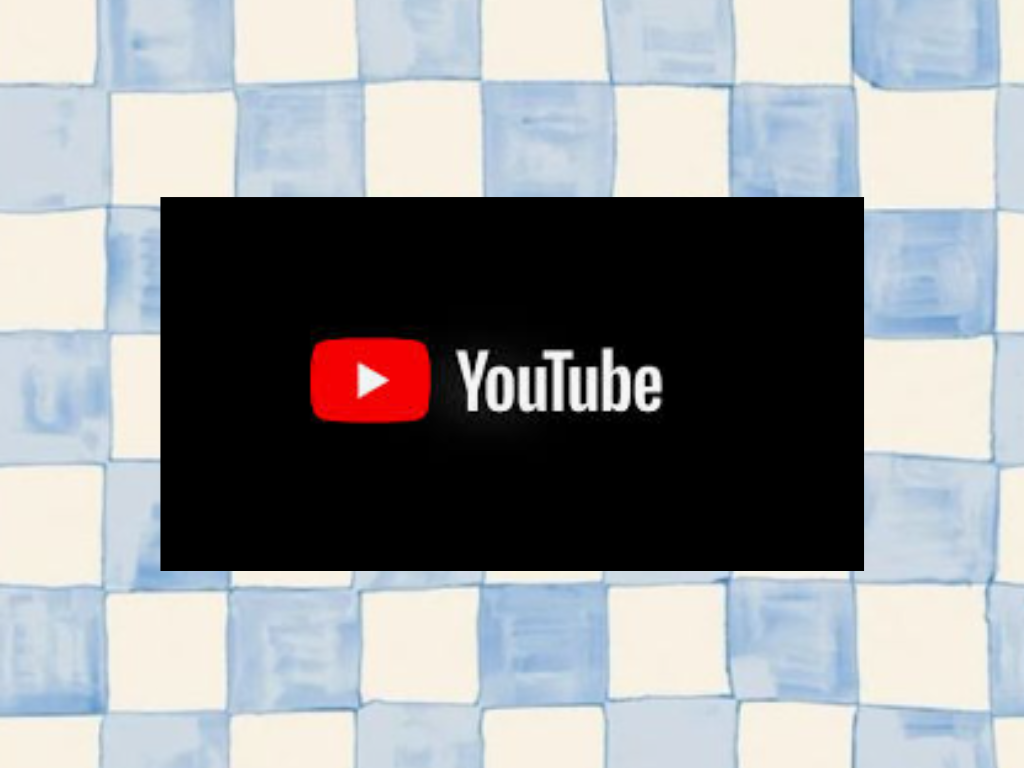
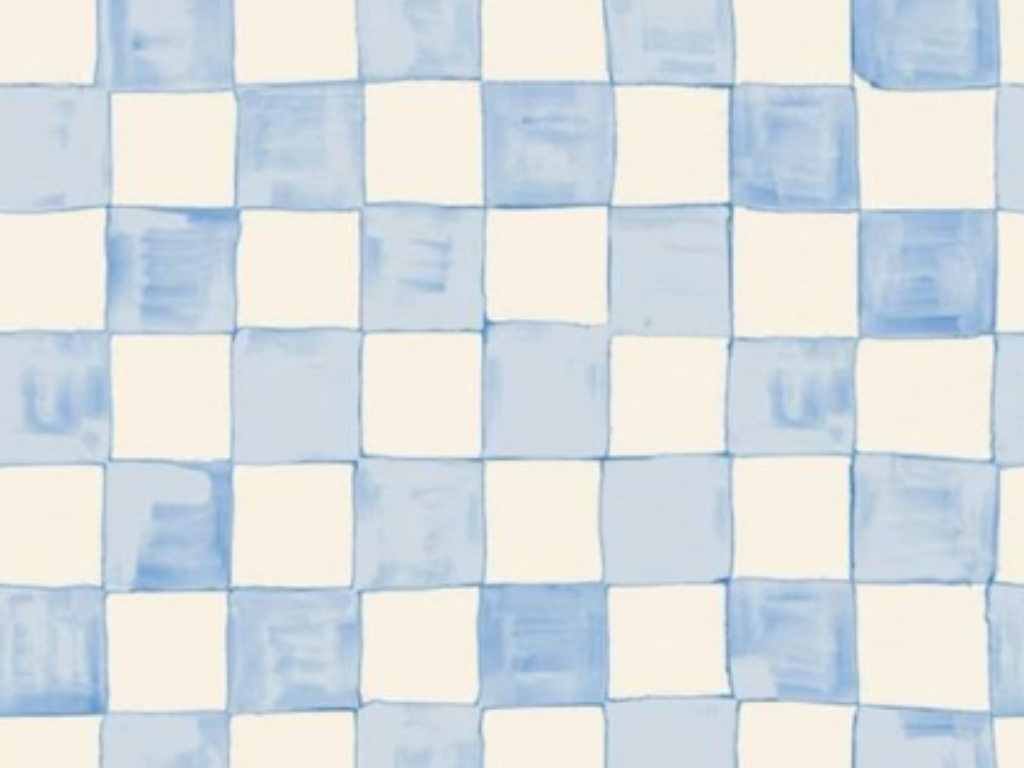
Adiciona seção de vídeos com novos estilos e lógica de exibição, remove código desnecessário e imagens obsoletas

diff --git a/src/js/scripts.js b/src/js/scripts.js
@@ -1,26 +1,11 @@
-// Importando a chave da API e o ID da playlist
-import { chaveApi, idPlaylist } from "./chave-api.js";
-
-// Lista de imagens para o fundo dos vídeos
-const backgroundImages = [
-  "./src/images/background-projetos/1.png",
-  "./src/images/background-projetos/2.png",
-  "./src/images/background-projetos/3.png",
-  "./src/images/background-projetos/4.png",
-  "./src/images/background-projetos/5.png",
-];
-
 document.addEventListener("DOMContentLoaded", function () {
   // --- SEÇÃO 1: LÓGICA DO HEADER E NAVEGAÇÃO ---
-
-  // Rolar suavemente até o topo ao clicar no logo
   const logoLink = document.querySelector(".logo");
   logoLink.addEventListener("click", (event) => {
     event.preventDefault();
     window.scrollTo({ top: 0, behavior: "smooth" });
   });
 
-  // Alternar o menu hamburguer
   const menuHamburguer = document.getElementById("menu-hamburguer");
   const menuNavegacao = document.getElementById("menu-navegacao");
 
@@ -29,7 +14,6 @@ document.addEventListener("DOMContentLoaded", function () {
     menuNavegacao.classList.toggle("ativo");
   });
 
-  // Fechar o menu ao clicar em um link
   menuNavegacao.addEventListener("click", (event) => {
     if (event.target.tagName === "A") {
       menuHamburguer.classList.remove("ativo");
@@ -37,7 +21,6 @@ document.addEventListener("DOMContentLoaded", function () {
     }
   });
 
-  // Mudar o fundo do header ao rolar a página
   const cabecalho = document.querySelector(".cabecalho");
   const gatilhoRolagem = 10;
   window.addEventListener("scroll", () => {
@@ -47,76 +30,4 @@ document.addEventListener("DOMContentLoaded", function () {
       cabecalho.classList.remove("rolagem");
     }
   });
-
-  // LÓGICA PARA CARREGAR VÍDEOS DA PLAYLIST
-
-  const apiKey = chaveApi;
-  const playlistId = idPlaylist;
-  const maxResults = 5;
-  const apiUrl = `https://www.googleapis.com/youtube/v3/playlistItems?part=snippet&maxResults=${maxResults}&playlistId=${playlistId}&key=${apiKey}`;
-  const playlistContainer = document.getElementById("playlist-container");
-
-  fetch(apiUrl)
-    .then((response) => response.json())
-    .then((data) => {
-      if (data.items && data.items.length > 0) {
-        data.items.forEach((item, index) => {
-          const snippet = item.snippet;
-          const videoId = snippet.resourceId.videoId;
-          const title = snippet.title;
-
-          if (
-            title.toLowerCase().includes("private video") ||
-            title.toLowerCase().includes("deleted video")
-          ) {
-            return;
-          }
-
-          const videoContainer = document.createElement("div");
-          videoContainer.className = "video-container";
-
-          const imagemDoFundo =
-            backgroundImages[index % backgroundImages.length];
-          videoContainer.style.backgroundImage = `url('${imagemDoFundo}')`;
-
-          const iframe = document.createElement("iframe");
-          iframe.src = `https://www.youtube-nocookie.com/embed/${videoId}`;
-          iframe.title = title;
-          iframe.setAttribute("frameborder", "0");
-          iframe.setAttribute(
-            "allow",
-            "accelerometer; autoplay; clipboard-write; encrypted-media; gyroscope; picture-in-picture; web-share"
-          );
-          iframe.setAttribute("allowfullscreen", "");
-
-          const videoInfo = document.createElement("div");
-          videoInfo.className = "video-info";
-          const videoTitle = document.createElement("h3");
-          videoTitle.textContent = title;
-          videoInfo.appendChild(videoTitle);
-
-          videoContainer.appendChild(iframe);
-          videoContainer.appendChild(videoInfo);
-
-          // Regra para o primeiro vídeo (index 0)
-          if (index === 0) {
-            const folha = document.createElement("div");
-            folha.className = "alegoria alegoria-bottom-left";
-            folha.style.backgroundImage =
-              "url('./src/images/overlays/peixes.png')";
-            videoContainer.appendChild(folha);
-          }
-
-          playlistContainer.appendChild(videoContainer);
-        });
-      } else {
-        playlistContainer.innerHTML =
-          "<p>Não foi possível carregar os vídeos ou a playlist está vazia.</p>";
-      }
-    })
-    .catch((error) => {
-      console.error("Erro ao buscar vídeos da playlist:", error);
-      playlistContainer.innerHTML =
-        "<p>Ocorreu um erro ao carregar os vídeos. Verifique o console para mais detalhes.</p>";
-    });
 });

diff --git a/index.html b/index.html
@@ -124,8 +124,65 @@
 
       <!-- Videos -->
       <section id="projetos">
-        <div id="playlist-container" class="videos"></div>
+        <div class="videos">
+
+          <!-- Vídeo 1 -->
+          <div class="video-container" style="background-image: url('src/images/background-projetos/1.png');">
+            <div class="video-wrapper">
+              <iframe src="https://www.youtube.com/embed/oAYWICMuJ-A?si=gFfYXYeteQlchNlc" title="YouTube video player" frameborder="0" allow="accelerometer; autoplay; clipboard-write; encrypted-media; gyroscope; picture-in-picture; web-share" referrerpolicy="strict-origin-when-cross-origin" allowfullscreen></iframe>
+              <img class="alegoria" src="src/images/overlays/01.png" alt="Moldura do vídeo">
+            </div>
+            <div class="video-info">
+              <h3>Poema em Libras: Feridas</h3>
+            </div>
+          </div>
+
+          <!-- Vídeo 2 -->
+          <div class="video-container" style="background-image: url('src/images/background-projetos/2.png');">
+            <div class="video-wrapper">
+              <iframe src="https://www.youtube.com/embed/3wYYPoxd-ME?si=6d9Cz5tikNS7Orh5" title="YouTube video player" frameborder="0" allow="accelerometer; autoplay; clipboard-write; encrypted-media; gyroscope; picture-in-picture; web-share" referrerpolicy="strict-origin-when-cross-origin" allowfullscreen></iframe>
+              <img class="alegoria" src="src/images/overlays/02.png" alt="Moldura do vídeo">
+            </div>
+            <div class="video-info">
+              <h3>Poema em Libras: Sem ar</h3>
+            </div>
+          </div>
+
+          <!-- Vídeo 3 -->
+          <div class="video-container" style="background-image: url('src/images/background-projetos/3.png');">
+            <div class="video-wrapper">
+              <iframe src="https://www.youtube.com/embed/qH-qsxawej8?si=JqvFwY8yUTM-x4ov" title="YouTube video player" frameborder="0" allow="accelerometer; autoplay; clipboard-write; encrypted-media; gyroscope; picture-in-picture; web-share" referrerpolicy="strict-origin-when-cross-origin" allowfullscreen></iframe>
+              <img class="alegoria" src="src/images/overlays/03.png" alt="Moldura do vídeo">
+            </div>
+            <div class="video-info">
+              <h3>Poema em Libras: Em pele de homem</h3>
+            </div>
+          </div>
+
+          <!-- Vídeo 4 -->
+          <div class="video-container" style="background-image: url('src/images/background-projetos/4.png');">
+            <div class="video-wrapper">
+              <iframe src="https://www.youtube.com/embed/HWVAz4haZ5c?si=Rwj53BkEYsQOCGIR" title="YouTube video player" frameborder="0" allow="accelerometer; autoplay; clipboard-write; encrypted-media; gyroscope; picture-in-picture; web-share" referrerpolicy="strict-origin-when-cross-origin" allowfullscreen></iframe>
+              <img class="alegoria" src="src/images/overlays/04.png" alt="Moldura do vídeo">
+            </div>
+            <div class="video-info">
+              <h3>Poema em Libras: Por que será?</h3>
+            </div>
+          </div>
+
+          <!-- Vídeo 5 -->
+          <div class="video-container" style="background-image: url('src/images/background-projetos/5.png');">
+            <div class="video-wrapper">
+              <iframe src="https://www.youtube.com/embed/UQdnkdUZAK0?si=iDMpp4vlFxTddexm" title="YouTube video player" frameborder="0" allow="accelerometer; autoplay; clipboard-write; encrypted-media; gyroscope; picture-in-picture; web-share" referrerpolicy="strict-origin-when-cross-origin" allowfullscreen></iframe>
+              <img class="alegoria" src="src/images/overlays/05.png" alt="Moldura do vídeo">
+            </div>
+            <div class="video-info">
+              <h3>Poema em Libras: Coleira</h3>
+            </div>
+          </div>
+        </div>
       </section>
+
 
       <div class="banner-governo-ce">
         <img

diff --git a/src/css/projetos.css b/src/css/projetos.css
@@ -1,5 +1,3 @@
-/* Videos */
-
 #projetos {
   padding: 5vh;
 }
@@ -13,10 +11,10 @@
 .video-container {
   width: 100%;
   margin-bottom: 40px;
-  padding: 50px;
+  padding: 3rem;
   align-items: center;
   background-size: cover;
-  background-position: center center;
+  background-position: center;
   background-repeat: no-repeat;
   position: relative;
   overflow: hidden;
@@ -24,32 +22,44 @@
   box-shadow: 0 8px 20px rgba(0, 0, 0, 0.2);
 }
 
-.video-container ::before {
-  content: "";
+.video-wrapper {
+  position: relative;
+  width: 70%; /* controla o tamanho do vídeo */
+  aspect-ratio: 16 / 9;
+  margin: 0 auto;
+}
+
+.video-wrapper iframe {
+  width: 100%;
+  height: 100%;
+  border-radius: 12px;
+  display: block;
+  position: relative;
+  z-index: 1;
+}
+
+.video-wrapper .alegoria {
   position: absolute;
   top: 0;
   left: 0;
   width: 100%;
   height: 100%;
-  z-index: 0;
-}
-.video-container iframe {
-  max-width: 50%;
-  aspect-ratio: 16 / 9;
-  height: auto;
-  display: block;
-  margin: 0 auto;
-  border-radius: 8px;
+  object-fit: contain; /* mantém proporção sem cortar */
+  z-index: 2;
+  pointer-events: none; /* não atrapalha clique nos botões do YouTube */
 }
 
 .video-info h3 {
   color: #fff;
   text-align: center;
-  padding: 2rem;
+  margin-top: 1rem;
+  background-color: #333;
+  background-size: cover;
+  padding: 0.5rem;
 }
 
-.video-container iframe,
-.video-container .video-info {
-  position: relative;
-  z-index: 1;
+@media (max-width: 768px) {
+  .video-wrapper {
+    width: 95%;
+  }
 }

diff --git a/src/css/style.css b/src/css/style.css
@@ -46,20 +46,6 @@ p {
   color: #fff;
 }
 
-/* Projetos em Destaque */
-.projetos-destaques {
-  margin-top: -20vh;
-}
-
-.lista-projetos-destaques {
-  padding: 5vh;
-  display: flex;
-  flex-wrap: wrap;
-  justify-content: center;
-  align-items: center;
-  gap: 2vh;
-}
-
 .banner-governo-ce {
   margin-top: 1vh;
 }
@@ -69,27 +55,4 @@ footer {
   text-align: center;
   font-size: larger;
   padding: 2vh;
-}
-
-/* Estilo para o vídeo */
-.alegoria {
-  position: absolute;
-  background-size: contain;
-  background-repeat: no-repeat;
-  z-index: 2;
-  pointer-events: none;
-}
-
-.alegoria-bottom-left {
-  bottom: -40px;
-  left: 10rem;
-  width: 36%;
-  height: 25vh;
-}
-
-.alegoria-top-right {
-  top: -60px;
-  right: -6rem;
-  width: 36%;
-  height: 25vh;
 }

diff --git a/src/css/responsive.css b/src/css/responsive.css
@@ -1,23 +1,3 @@
-@media only screen and (max-width: 1400px) {
-  .lista-projetos-destaques {
-    display: flex;
-    justify-content: space-between;
-    flex-wrap: nowrap;
-    overflow-x: auto;
-    gap: 16px;
-    padding: 16px;
-    scroll-behavior: smooth;
-  }
-
-  .lista-projetos-destaques::-webkit-scrollbar {
-    display: none;
-  }
-
-  .lista-projetos-destaques > * {
-    flex: 0 0 auto;
-  }
-}
-
 @media only screen and (max-width: 1200px) {
   .logo img {
     max-height: 20vh !important;
@@ -40,7 +20,6 @@
   .card img {
     border-radius: 0% !important;
     padding: 0.5rem;
-    max-height: 50vh;
   }
   .row.g-0.fundo-sobre-mim {
     display: flex;
